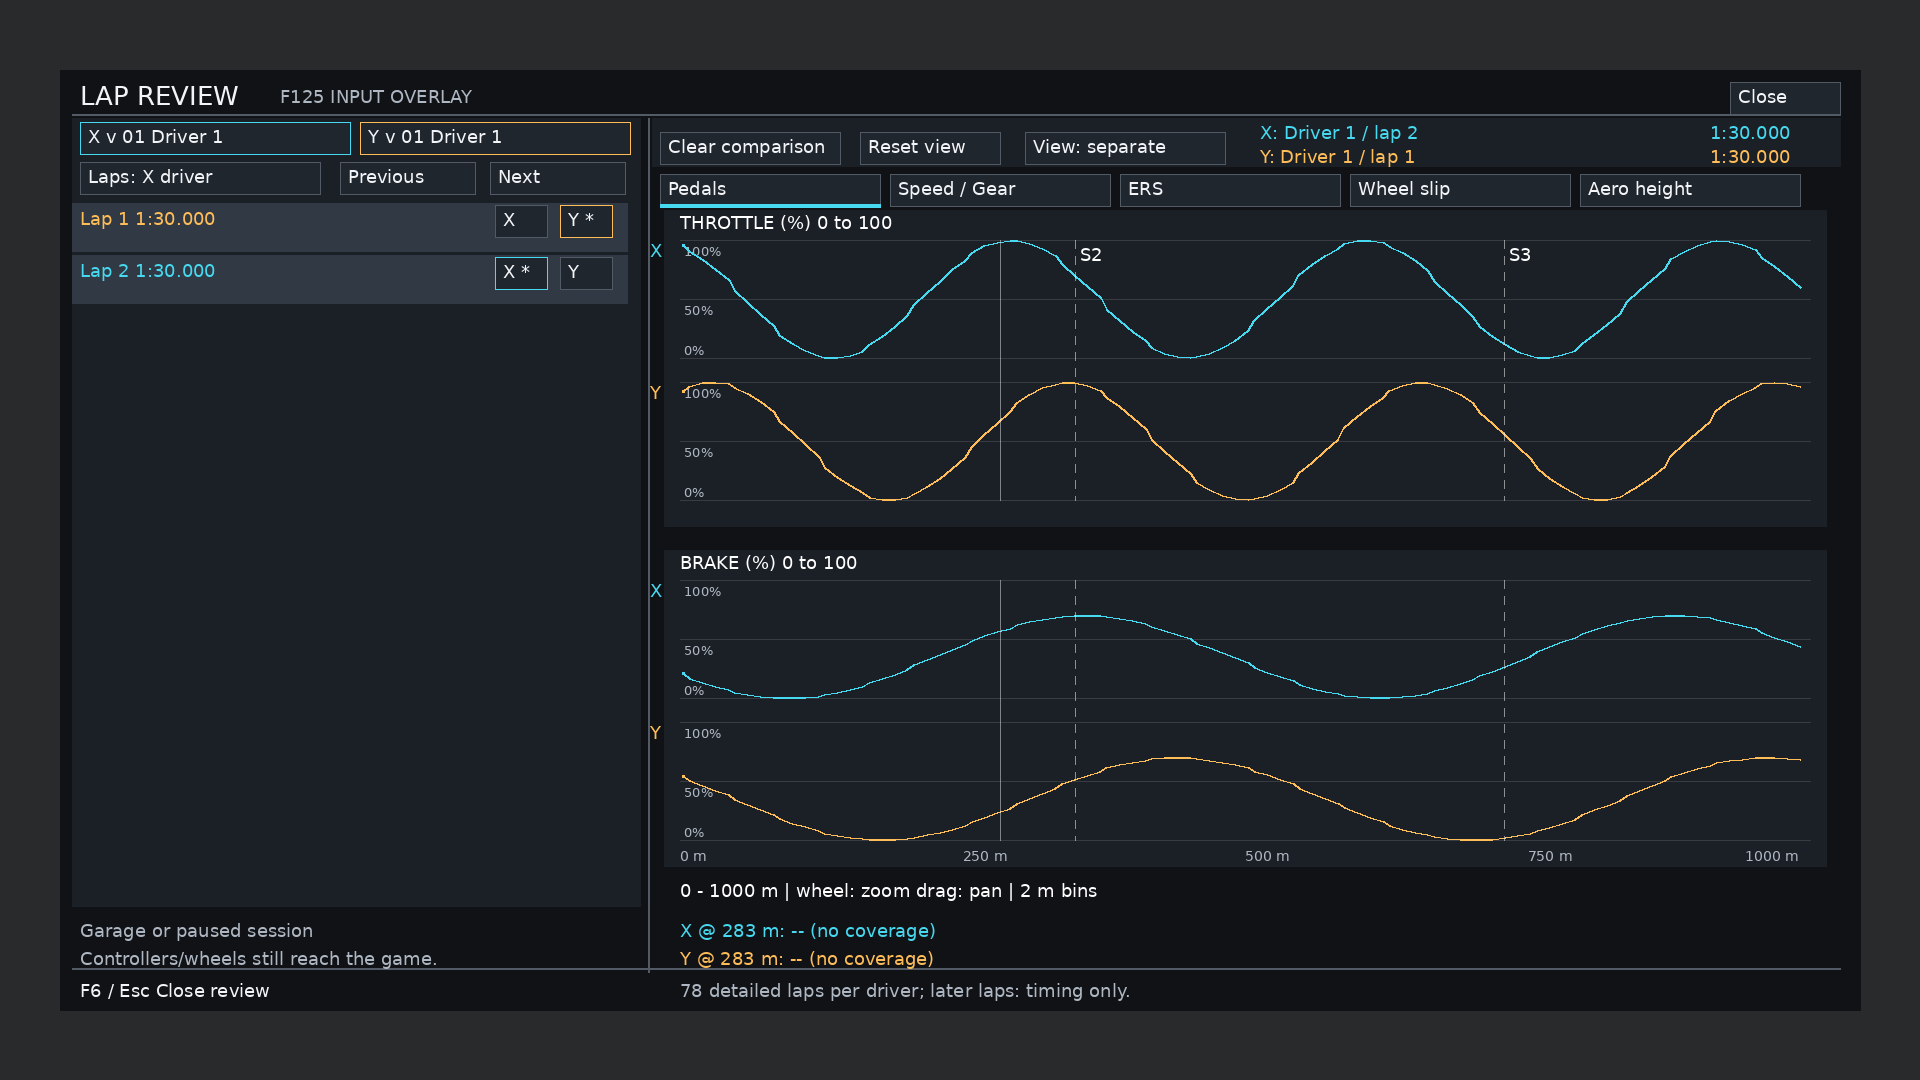
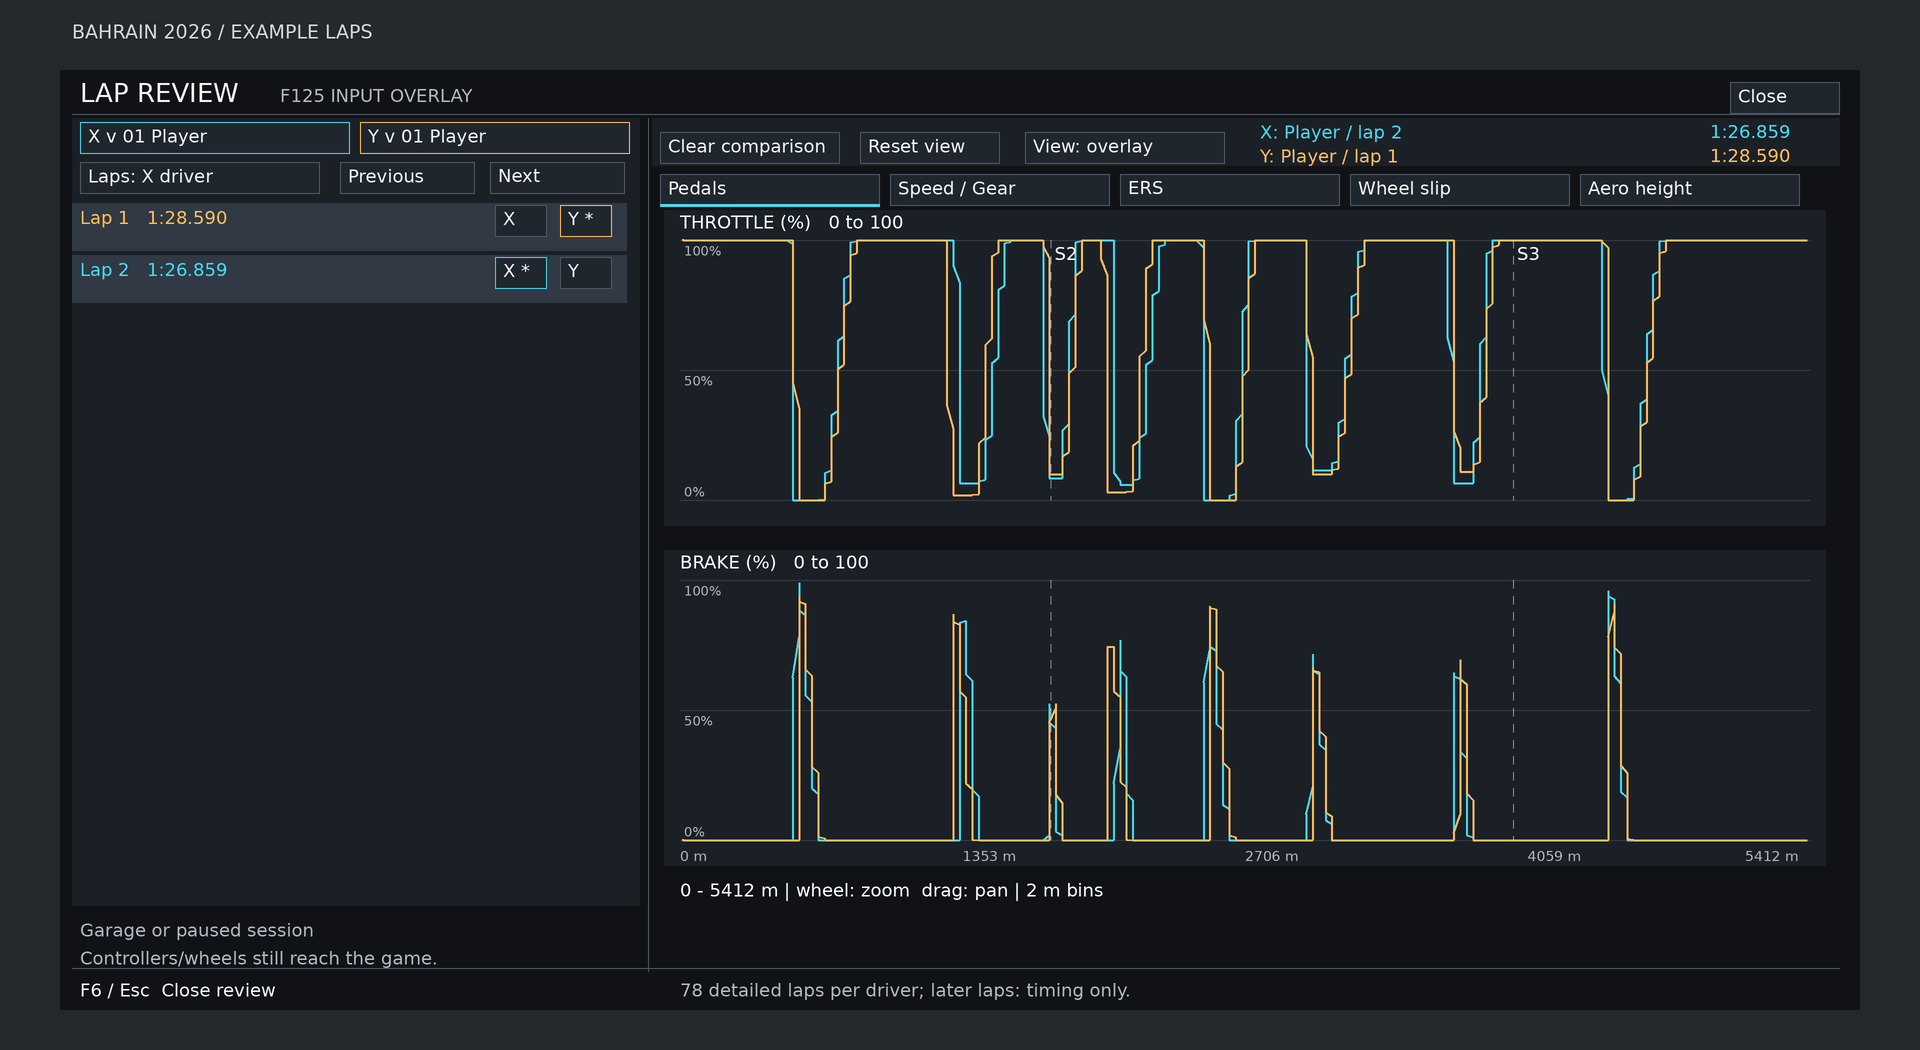
Show Bahrain 2026 laps in the README overlay previews

diff --git a/README.md b/README.md
@@ -11,7 +11,7 @@ The display uses game-reported inputs, not pedal force or raw hardware readings.
 
 ## Preview
 
-The live HUD image shows an earlier in-game layout. The F6 preview shows the current panel drawing two synthetic laps in a test host with a substitute font.
+The live HUD image shows an earlier in-game layout.
 
 ### Live inputs
 
@@ -19,7 +19,15 @@ The live HUD image shows an earlier in-game layout. The F6 preview shows the cur
 
 ### F6 lap comparison
 
-![F6 lap comparison with the current theme and synthetic laps](docs/images/F6-lap-review.png)
+The Bahrain 2026 example compares two synthetic laps over the full 5.412 km layout. In **View: overlay**, the cyan and amber traces share the same axes on each graph. The preview was rendered in a test host with a substitute font.
+
+#### Pedals
+
+![F6 lap review in Overlay mode with cyan and amber throttle and brake traces for two example laps at Bahrain 2026](docs/images/F6-lap-review.png)
+
+#### Speed / Gear
+
+![F6 Speed / Gear page in Overlay mode with speed and gear traces for the same two Bahrain 2026 example laps](docs/images/F6-lap-review-speed-gear.png)
 
 ## Install and start driving
 
@@ -55,7 +63,7 @@ Choose a corner, then move inward with **Horizontal position** and **Vertical po
 
 Leave **Record session laps in memory** on while driving. Pause during the session (or return to the garage unpaused), press **F6** while the game window is active.
 
-Choose drivers independently with the **X v** and **Y v** buttons. Use **Laps: X driver / Y driver** to choose whose list to browse, then select **X** and **Y** beside completed laps. X is cyan and Y is amber, with separate comparison graphs for throttle and brake. Scroll over a graph to zoom, drag to pan, and use **Reset view** to fit the lap. Press **Escape**, **Close**, or your review key to return to the game. The default review key is F6 and can be changed to F6–F12. Existing Swofty profiles may retain a saved F8 binding; change it in addon settings.
+Choose drivers independently with the **X v** and **Y v** buttons. Use **Laps: X driver / Y driver** to choose whose list to browse, then select **X** and **Y** beside completed laps. X is cyan and Y is amber. Click **View** to switch between separate X/Y lanes and shared axes for throttle and brake. Scroll over a graph to zoom, drag to pan, and use **Reset view** to fit the lap. Press **Escape**, **Close**, or your review key to return to the game. The default review key is F6 and can be changed to F6–F12. Existing Swofty profiles may retain a saved F8 binding; change it in addon settings.
 
 **The recorder retains up to 78 detailed completed laps per driver**, plus the active lap, for up to 22 cars. Later laps show **NO TRACE** and retain timing. Very long layouts may lower the per-driver quota to stay within the 192 MiB recorder budget. F6 displays the session quota. Slip and aero data remain player-only; restricted opponent ERS is shown as unavailable. See [multi-driver review](docs/MULTI_DRIVER_REVIEW.md) for limits and validation.
 
